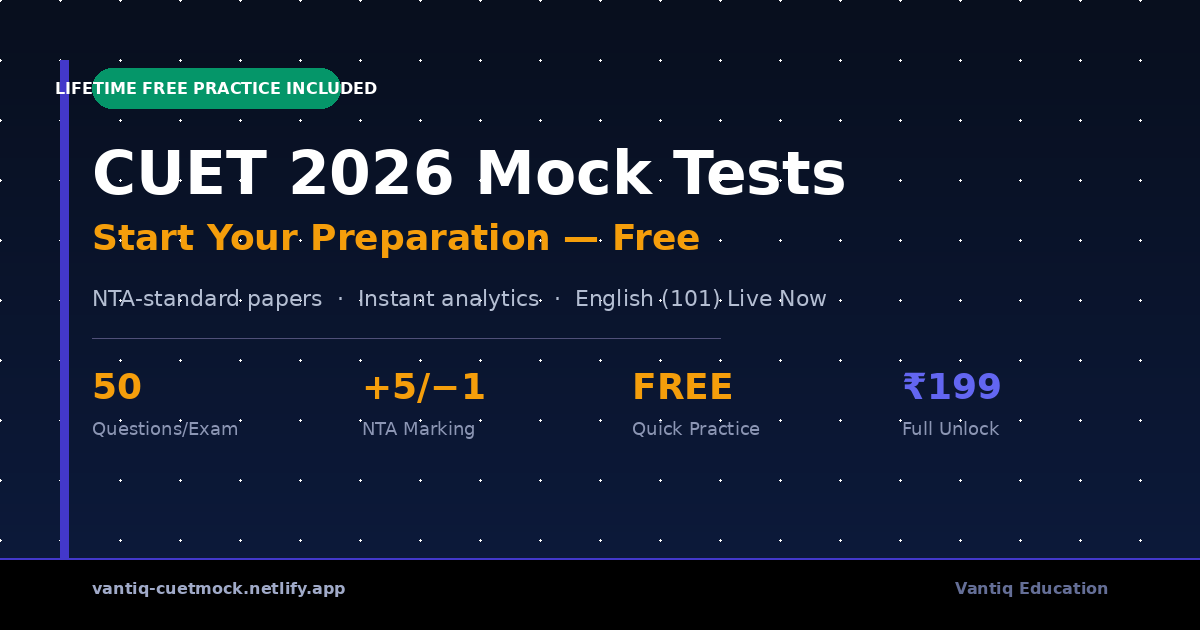
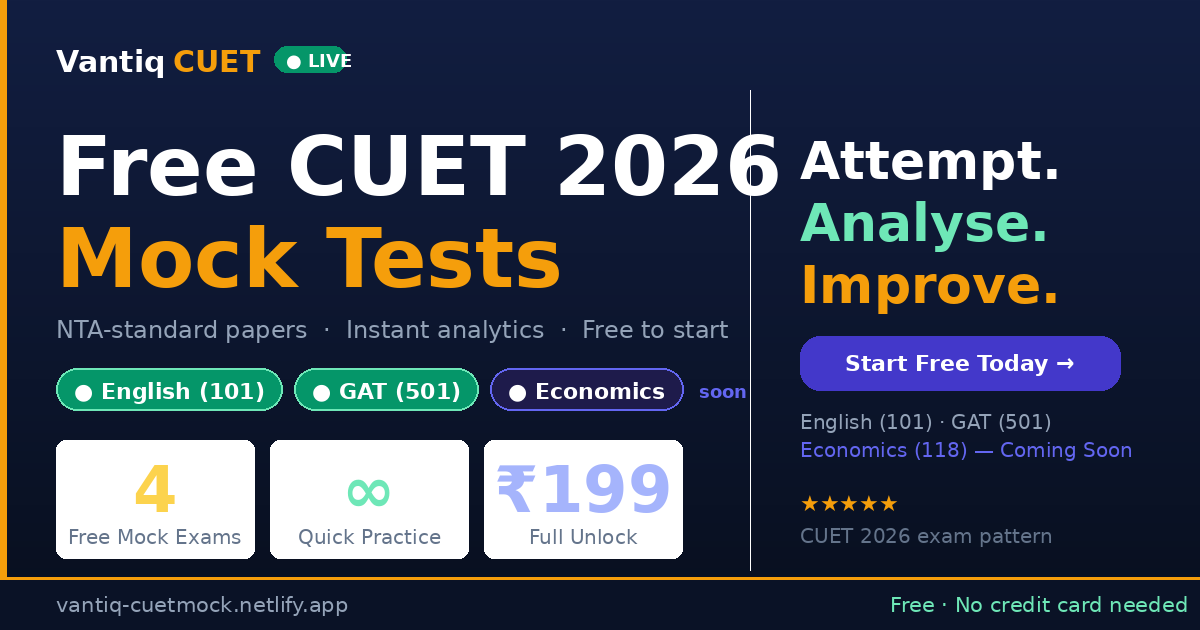
feat: new OG image for WhatsApp/social previews + updated meta tags
Problems fixed:
- Old og-image.png had tiny unreadable text (44KB, sparse design)
- Preview text was plain black, no visual impact
- Title didn't mention Economics

New og-image.png (1200×630):
- Dark navy background with amber left accent bar
- LARGE headline: 'Free CUET 2026' (white 82px) / 'Mock Tests' (amber 82px)
- Right panel: 'Attempt. Analyse. Improve.' in white/teal/amber
- Indigo 'Start Free Today →' CTA pill
- Green subject chips: English (101) · GAT (501) · Economics (soon)
- Three stat cards: 4 (yellow) · ∞ (teal) · ₹199 (lavender)
- '● LIVE' green pill in header
- URL bar at bottom: teal 'Free · No credit card needed'
- All text large and readable at WhatsApp thumbnail size

Meta tags:
- og:title updated to include Economics
- og:description updated
- twitter:title updated
- og:image URL bumped to ?v=2 to force WhatsApp cache refresh

diff --git a/index.html b/index.html
@@ -14,9 +14,9 @@
     <!-- Open Graph — WhatsApp, Facebook, LinkedIn -->
     <meta property="og:type" content="website" />
     <meta property="og:url" content="https://vantiq-cuetmock.netlify.app/" />
-    <meta property="og:title" content="Free CUET 2026 Mock Tests — English &amp; GAT" />
-    <meta property="og:description" content="NTA-standard CUET English (101) and GAT (501) mock tests. Quick Practice free forever. 4 full exams free — no credit card needed." />
-    <meta property="og:image" content="https://vantiq-cuetmock.netlify.app/og-image.png" />
+    <meta property="og:title" content="Free CUET 2026 Mock Tests — English, GAT &amp; Economics" />
+    <meta property="og:description" content="NTA-standard CUET English (101), GAT (501) and Economics (118) mock tests. Quick Practice free forever. 4 full exams free — no card needed." />
+    <meta property="og:image" content="https://vantiq-cuetmock.netlify.app/og-image.png?v=2" />
     <meta property="og:image:width" content="1200" />
     <meta property="og:image:height" content="630" />
     <meta property="og:image:alt" content="Vantiq CUET 2026 — Free Mock Tests for English &amp; GAT" />
@@ -25,12 +25,12 @@
 
     <!-- Twitter / X Card -->
     <meta name="twitter:card" content="summary_large_image" />
-    <meta name="twitter:title" content="Free CUET 2026 Mock Tests for English (101) &amp; GAT" />
+    <meta name="twitter:title" content="Free CUET 2026 Mock Tests — English, GAT &amp; Economics" />
     <meta name="twitter:description" content="NTA-standard CUET English &amp; GAT mock tests. Quick Practice free forever. 4 full exams free." />
-    <meta name="twitter:image" content="https://vantiq-cuetmock.netlify.app/og-image.png" />
+    <meta name="twitter:image" content="https://vantiq-cuetmock.netlify.app/og-image.png?v=2" />
 
     <!-- WhatsApp specific -->
-    <meta property="og:image:secure_url" content="https://vantiq-cuetmock.netlify.app/og-image.png" />
+    <meta property="og:image:secure_url" content="https://vantiq-cuetmock.netlify.app/og-image.png?v=2" />
 
     <!-- Fonts -->
     <link rel="preconnect" href="https://fonts.googleapis.com" />
